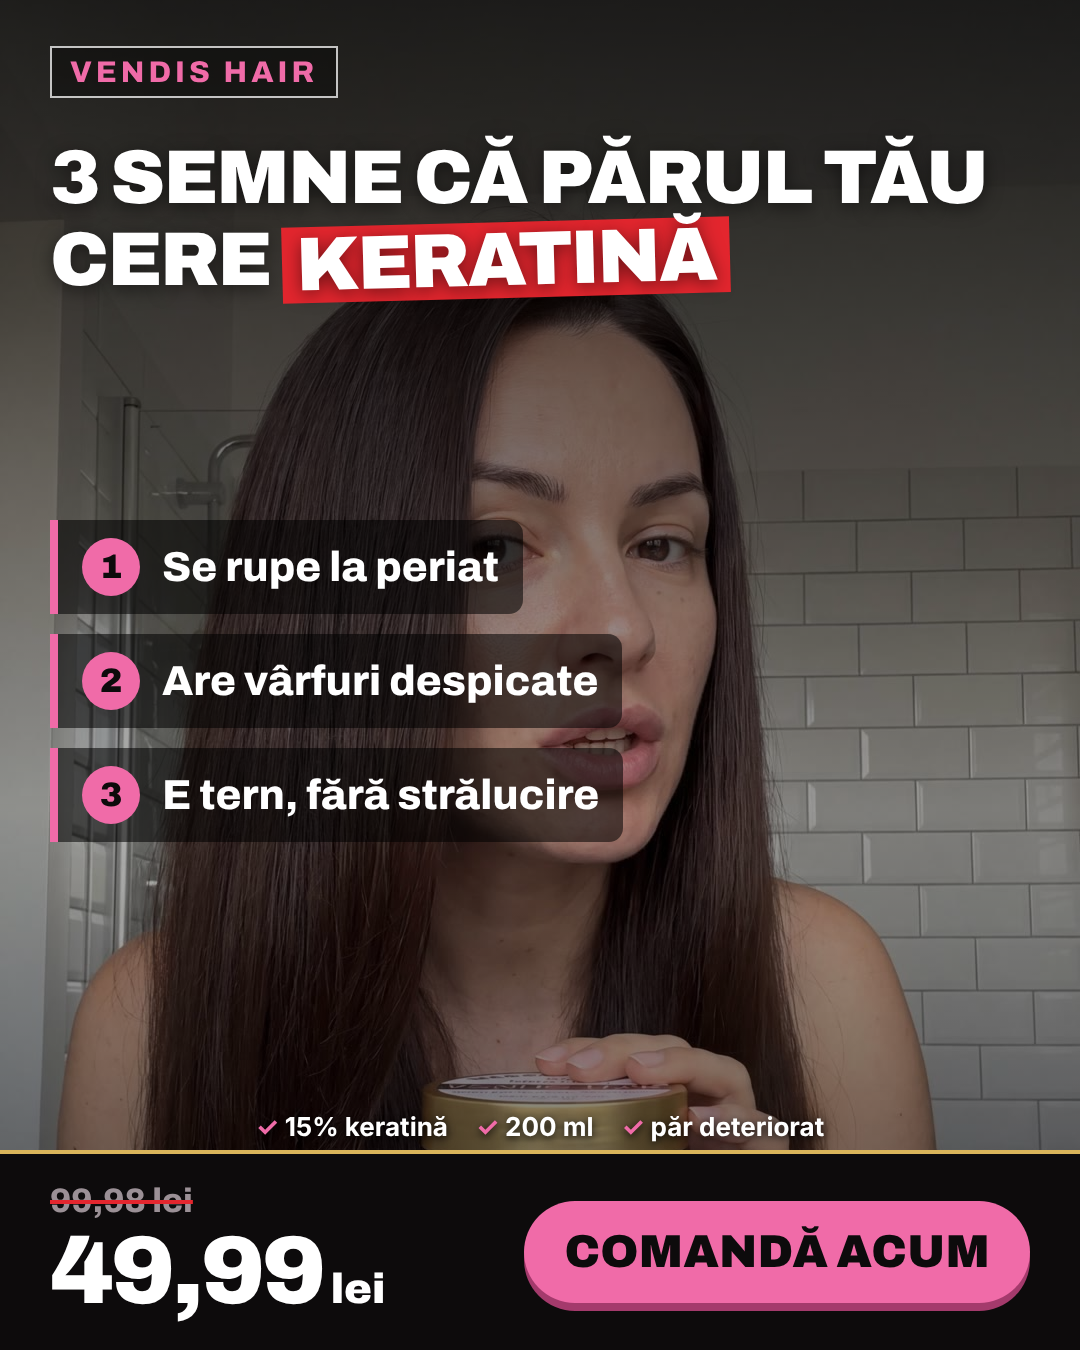
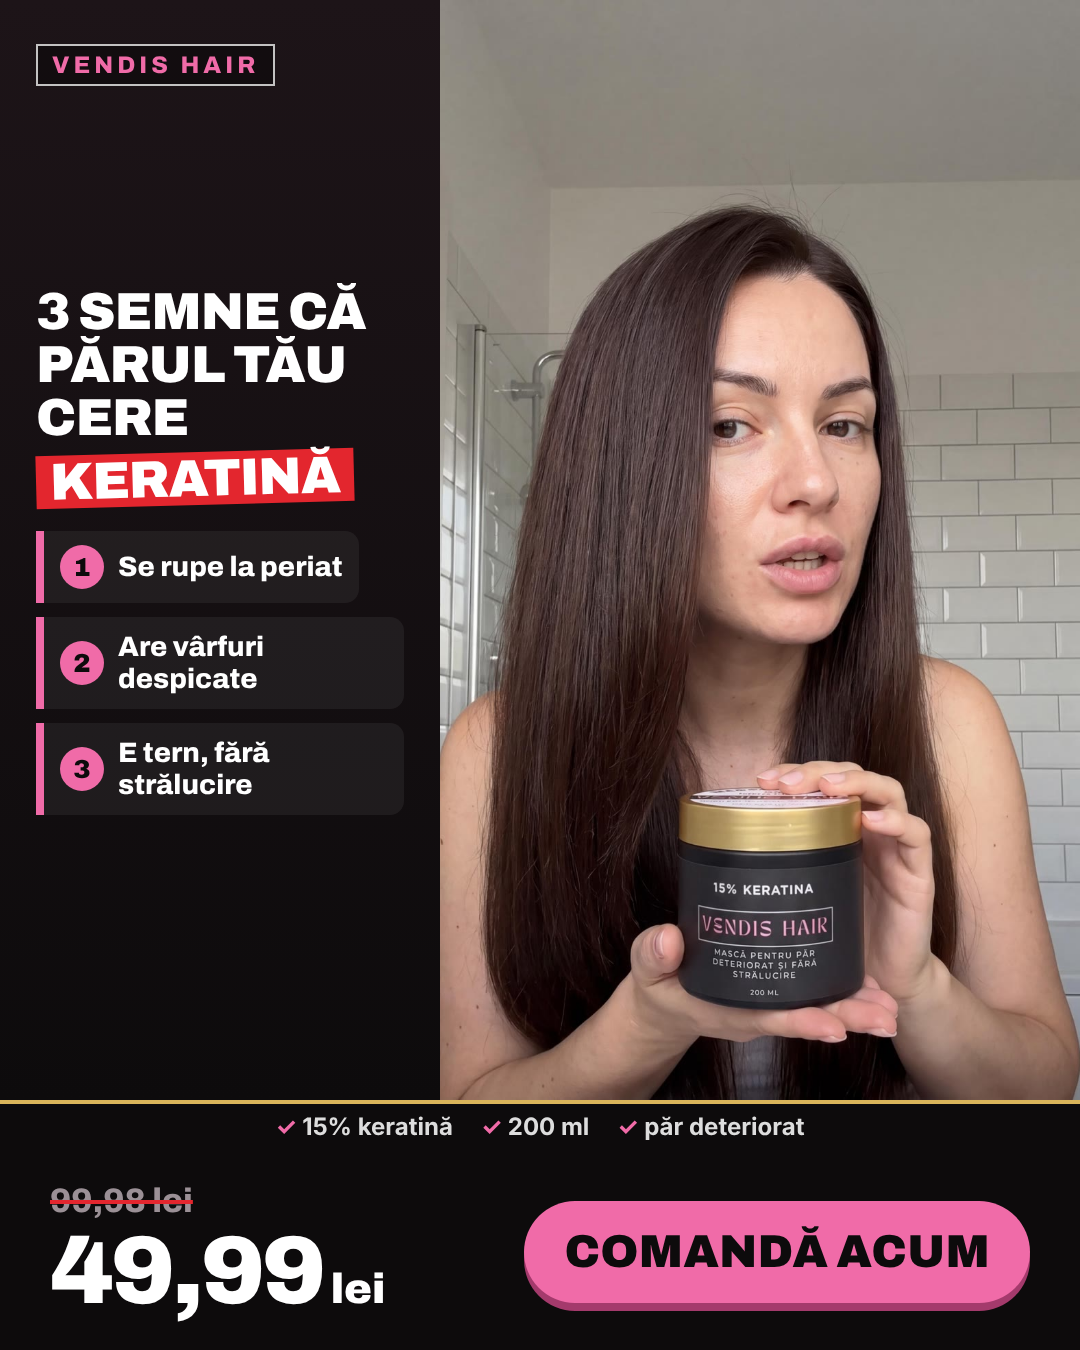
VENDIS ads: move text into a side column so faces and product stay uncovered
Claude-Session: https://claude.ai/code/session_01679a5FVAN16qcTnquwPn6D

diff --git a/brand/vendis-ads/ads.js b/brand/vendis-ads/ads.js
@@ -39,48 +39,83 @@ html,body{width:${W}px;height:${H}px;overflow:hidden;background:var(--ink);color
 const foot = (old = true) => `
 <div class="chk"><span>15% keratină</span><span>200 ml</span><span>păr deteriorat</span></div>
 <div class="foot"><div class="price">${old ? '<s>99,98 lei</s>' : ''}<b>49,99<small> lei</small></b></div><div class="cta">Comandă acum</div></div>`;
-const page = (body) => `<!doctype html><html lang="ro"><head><meta charset="utf-8"><style>${CSS}</style></head><body>${body}</body></html>`;
+const SPLIT = `
+.col{position:absolute;top:0;bottom:250px;width:440px;padding:44px 36px;justify-content:center;background:linear-gradient(180deg,#1d1418,#0d0b0c);display:flex;flex-direction:column;gap:26px}
+.col .logo{position:absolute;top:44px;left:36px;font-size:24px;padding:6px 14px}
+.col .h{position:static;font-size:58px;line-height:1.02;letter-spacing:-1px;text-shadow:none}
+.col .h span{margin-top:8px}
+.col .sub{position:static;font:600 30px/1.3 I;text-shadow:none;color:#eee}
+.col .sub b{color:var(--pink)}
+.col .list{position:static;gap:14px}
+.col .list div{font:800 28px/1.15 A;padding:14px 16px;gap:14px;background:rgba(255,255,255,.06)}
+.col .list b{width:44px;height:44px;font-size:26px;line-height:44px}
+.col .list i{font-size:32px}
+.col .note{position:static;font-size:50px;padding:34px 30px 26px;margin-top:30px}
+.col .note small{font-size:36px}
+.col .pov{position:static;font-size:38px;padding:24px 26px}
+.col .big{font:900 128px/0.9 A;color:var(--red);letter-spacing:-6px}
+.ph{position:absolute;top:0;bottom:250px;width:640px;overflow:hidden}
+.ph img{width:100%;height:100%;object-fit:cover}
+.L .col{left:0}.L .ph{right:0}.R .col{right:0}.R .ph{left:0}
+.foot{height:250px;padding-top:50px}
+.chk{bottom:auto;top:1112px;z-index:2;text-shadow:none;color:#ddd;font-size:24px}
+.tophead{position:absolute;left:0;right:0;top:0;height:560px;padding:44px 50px;background:linear-gradient(180deg,#1d1418,#0d0b0c)}
+.tophead .logo{position:static;display:inline-block;font-size:24px;padding:6px 14px;margin-bottom:24px}
+.tophead .h{position:static;font-size:76px;text-shadow:none}
+.tophead .list{position:static;margin-top:26px;display:grid;grid-template-columns:1fr 1fr;gap:14px}
+.tophead .list div{font:800 28px/1.15 A;padding:14px 16px;gap:12px;background:rgba(255,255,255,.06);width:auto}
+.tophead .list i{font-size:32px}
+.wide{position:absolute;left:0;right:0;top:560px;bottom:250px;overflow:hidden}.wide img{width:100%;height:100%;object-fit:cover}
+`;
+const page = (body) => `<!doctype html><html lang="ro"><head><meta charset="utf-8"><style>${CSS}${SPLIT}</style></head><body>${body}</body></html>`;
 const img = (f, pos = 'center') => `<img class="bg" src="img/${f}.jpg" style="object-position:${pos}">`;
 const LOGO = '<div class="logo">VENDIS HAIR</div>';
 
+const split = (side, file, pos, col) => page(`<div class="${side}"><div class="ph"><img src="img/${file}.jpg" style="object-position:${pos}"></div>
+  <div class="col"><div class="logo">VENDIS HAIR</div>${col}</div></div>${foot()}`);
+
 module.exports = [
-  { id: 'A01-paie', html: page(`${img('blonda-cenusie', '50% 30%')}<div class="shade-top"></div><div class="shade-bot"></div>${LOGO}
-    <div class="h" style="top:140px">Părul tău arată ca <span>paiele?</span></div>
-    <div class="sub" style="top:400px">Ars de decolorare, uscat, fără strălucire.<br>Masca cu <b style="color:var(--pink)">15% keratină</b> îl face moale și lucios din nou.</div>${foot()}`) },
+  { id: 'A01-paie', html: split('L', 'blonda-cenusie', '50% 50%', `
+    <div class="h">Părul tău arată ca <span>paiele?</span></div>
+    <div class="sub">Ars de decolorare, uscat, fără strălucire.</div>
+    <div class="sub">Masca cu <b>15% keratină</b> îl face moale și lucios din nou.</div>`) },
 
-  { id: 'A02-de-ani', html: page(`${img('borcan-real', '50% 60%')}<div class="shade-bot"></div>${LOGO}
-    <div class="note" style="left:80px;right:80px;top:150px">O folosesc eu însămi de ani de zile. De-asta o recomand din tot sufletul. Chiar ajută!<small>♥ poză reală, fără filtre</small></div>${foot()}`) },
+  { id: 'A02-de-ani', html: split('R', 'borcan-real', '45% 50%', `
+    <div class="note">O folosesc eu însămi de ani de zile. De-asta o recomand din tot sufletul. Chiar ajută!<small>♥ poză reală, fără filtre</small></div>`) },
 
-  { id: 'A03-reducere', html: page(`${img('hero-m', '50% 50%')}<div class="shade-top"></div>${LOGO}
-    <div class="h" style="top:140px">Reducere<br><span>−50%</span></div>
-    <div class="sub" style="top:390px">Masca de păr cu 15% keratină,<br>acum la jumătate de preț.</div>
-    <div class="sticker" style="right:60px;top:700px"><span>DOAR</span><b>49,99</b><span>LEI</span></div>${foot()}`) },
+  { id: 'A03-reducere', html: split('L', 'hero-m', '50% 50%', `
+    <div class="h">Reducere</div><div class="big">−50%</div>
+    <div class="sub">Masca de păr cu <b>15% keratină</b>, acum la jumătate de preț.</div>
+    <div class="sticker" style="position:relative;transform:rotate(-8deg);width:210px;height:210px;margin-top:10px"><span>DOAR</span><b style="font-size:72px">49,99</b><span>LEI</span></div>`) },
 
-  { id: 'A04-beneficii', html: page(`${img('roscata', '35% 50%')}<div class="shade-top" style="height:100%;background:linear-gradient(90deg,rgba(0,0,0,.8),rgba(0,0,0,.35) 70%,transparent)"></div>${LOGO}
-    <div class="h" style="top:140px;font-size:80px">Ce face<br><span class="p">pentru părul tău</span></div>
-    <div class="list" style="top:430px"><div><i>✓</i>Hrănește firul în profunzime</div><div><i>✓</i>Strălucire intensă</div><div><i>✓</i>Mai puțin frizz</div><div><i>✓</i>Vârfuri cu aspect sănătos</div><div><i>✓</i>Ideală pentru păr vopsit</div></div>${foot()}`) },
+  { id: 'A04-beneficii', html: page(`<div class="tophead"><div class="logo">VENDIS HAIR</div>
+    <div class="h">Ce face pentru <span class="p">părul tău</span></div>
+    <div class="list"><div><i>✓</i>Hrănește firul în profunzime</div><div><i>✓</i>Strălucire intensă</div><div><i>✓</i>Mai puțin frizz</div><div><i>✓</i>Vârfuri cu aspect sănătos</div></div></div>
+    <div class="wide"><img src="img/hero-d.jpg" style="object-position:70% 50%"></div>${foot()}`) },
 
-  { id: 'A05-salon', html: page(`${img('blonda-miere', '50% 40%')}<div class="shade-top"></div><div class="shade-bot"></div>${LOGO}
-    <div class="h" style="top:140px">Tratament de salon.<br><span class="p">Acasă.</span></div>
-    <div class="sub" style="top:470px">Fără programare. Fără sute de lei.<br>Doar câteva minute după șampon.</div>${foot()}`) },
+  { id: 'A05-salon', html: split('R', 'blonda-miere', '62% 50%', `
+    <div class="h" style="font-size:52px">Tratament de salon. <span class="p">Acasă.</span></div>
+    <div class="sub">Fără programare.<br>Fără sute de lei.</div>
+    <div class="sub">Doar câteva minute după șampon.</div>`) },
 
-  { id: 'A06-semne', html: page(`${img('bruneta-baie', '50% 30%')}<div class="shade-top" style="height:100%;background:linear-gradient(180deg,rgba(0,0,0,.8),rgba(0,0,0,.3) 60%,rgba(0,0,0,.6))"></div>${LOGO}
-    <div class="h" style="top:140px;font-size:76px">3 semne că părul tău cere <span>keratină</span></div>
-    <div class="list" style="top:520px"><div><b>1</b>Se rupe la periat</div><div><b>2</b>Are vârfuri despicate</div><div><b>3</b>E tern, fără strălucire</div></div>${foot()}`) },
+  { id: 'A06-semne', html: split('L', 'bruneta-baie', '50% 50%', `
+    <div class="h" style="font-size:52px">3 semne că părul tău cere <span>keratină</span></div>
+    <div class="list"><div><b>1</b>Se rupe la periat</div><div><b>2</b>Are vârfuri despicate</div><div><b>3</b>E tern, fără strălucire</div></div>`) },
 
-  { id: 'A07-varfuri', html: page(`${img('saten', '50% 35%')}<div class="shade-top"></div><div class="shade-bot"></div>${LOGO}
-    <div class="h" style="top:140px">Vârfuri despicate?<br><span>Nu tăia!</span></div>
-    <div class="sub" style="top:520px">Hrănește-le cu 15% keratină și redă-le aspectul sănătos.</div>${foot()}`) },
+  { id: 'A07-varfuri', html: split('R', 'saten', '62% 50%', `
+    <div class="h" style="font-size:54px">Vârfuri despicate? <span>Nu tăia!</span></div>
+    <div class="sub">Hrănește-le cu <b>15% keratină</b> și redă-le aspectul sănătos.</div>`) },
 
-  { id: 'A08-pasi', html: page(`${img('hero-d', '82% 50%')}<div class="shade-top" style="height:100%;background:linear-gradient(180deg,rgba(0,0,0,.8),rgba(0,0,0,.4) 55%,rgba(0,0,0,.65))"></div>${LOGO}
-    <div class="h" style="top:140px;font-size:84px">Cum o <span class="p">folosești</span></div>
-    <div class="list" style="top:360px"><div><b>1</b>Speli părul cu șampon</div><div><b>2</b>Aplici masca pe lungimi și vârfuri</div><div><b>3</b>Lași câteva minute și clătești</div></div>
-    <div class="sub" style="top:850px;font-size:44px;color:var(--gold)">Gata. Păr moale și lucios.</div>${foot()}`) },
+  { id: 'A08-pasi', html: split('L', 'roscata', '42% 50%', `
+    <div class="h">Cum o <span class="p">folosești</span></div>
+    <div class="list"><div><b>1</b>Speli părul cu șampon</div><div><b>2</b>Aplici masca pe lungimi și vârfuri</div><div><b>3</b>Lași câteva minute și clătești</div></div>
+    <div class="sub" style="color:var(--gold)">Gata. Păr moale și lucios.</div>`) },
 
-  { id: 'A09-pov', html: page(`${img('blonda-living', '50% 40%')}<div class="shade-bot"></div>
-    <div class="pov" style="top:70px">POV: ți-ai găsit în sfârșit <b>masca de păr</b> pe care o cumperi iar și iar</div>${foot()}`) },
+  { id: 'A09-pov', html: split('R', 'blonda-living', '40% 50%', `
+    <div class="pov">POV: ți-ai găsit în sfârșit <b>masca de păr</b> pe care o cumperi iar și iar</div>
+    <div class="sub">Păr moale, lucios și ușor de pieptănat.</div>`) },
 
-  { id: 'A10-vopsit', html: page(`${img('bruneta-selfie', '50% 30%')}<div class="shade-top"></div><div class="shade-bot"></div>${LOGO}
-    <div class="h" style="top:140px;font-size:84px">Păr vopsit?<br>Păstrează-i <span class="p">strălucirea</span></div>
-    <div class="sub" style="top:470px">Culoare mai vie, păr mai moale,<br>fără frizz.</div>${foot()}`) },
+  { id: 'A10-vopsit', html: split('L', 'bruneta-selfie', '45% 50%', `
+    <div class="h" style="font-size:44px">Păr vopsit?<br>Păstrează&#8209;i <span class="p">strălucirea</span></div>
+    <div class="sub">Culoare mai vie, păr mai moale, fără frizz.</div>`) },
 ];
